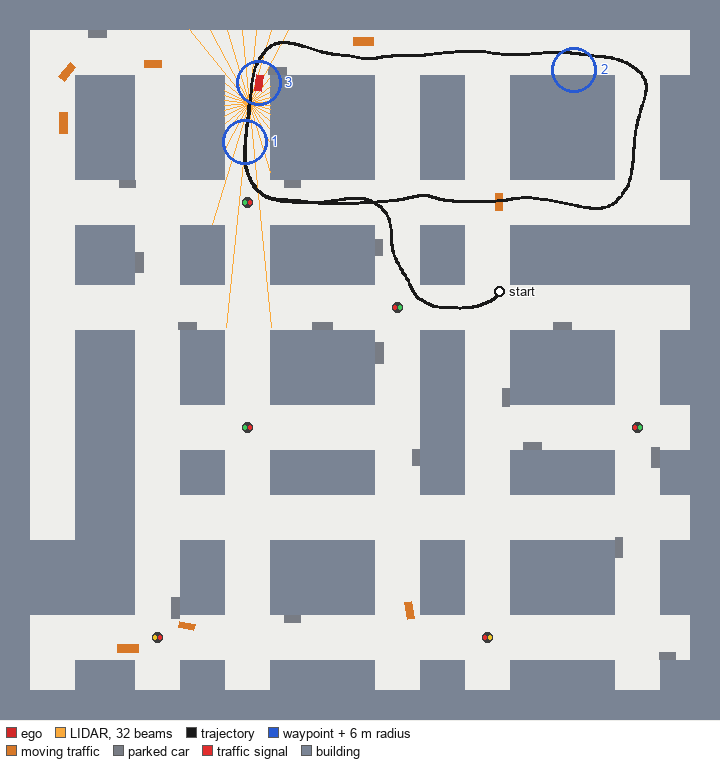
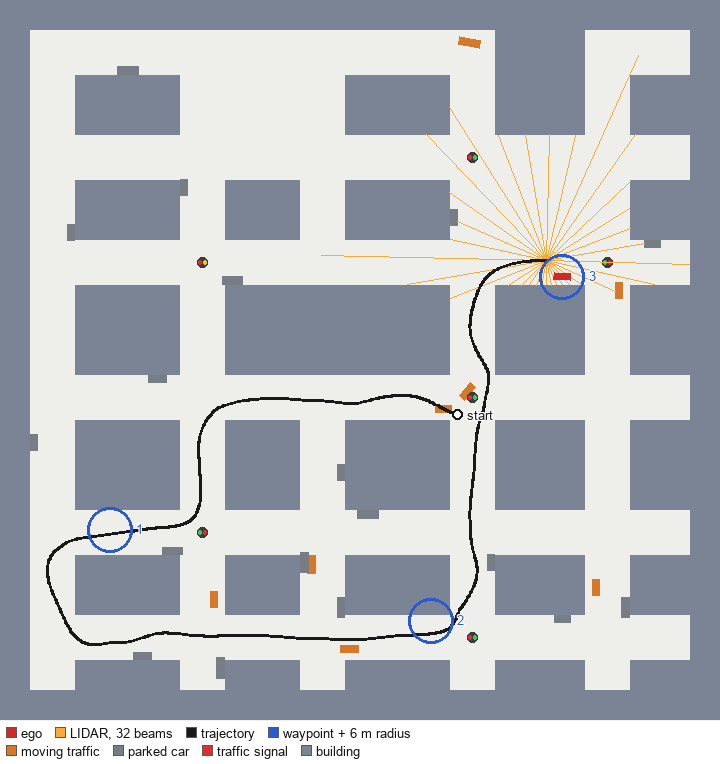
Never sample a waypoint inside a dead-end border tail
Every v_road/h_road is painted border-to-border in generate() regardless of
where the other axis's crossings fall, so the stretch beyond a corridor's
outermost intersection -- out to the map edge -- is real, drivable road with
nothing connecting past it. Measured up to 7 tiles (28 m) deep. A spawn,
parked car, or on-rails traffic sitting there is harmless, but a waypoint
placed there sends the ego on a there-and-back detour into a stub instead of
routing it through the intersection it forked from -- which is what was being
reported as "a 4-way intersection where one path leads to a dead end."

ProceduralCity now exposes target_cells (road_cells minus those border
tails, computed once per generate()); _sample_targets draws from it instead
of road_cells. road_cells itself, and everything that reads it (spawn pose
sampling, parking, traffic routing), is untouched. A waypoint can still land
right at the intersection the tail hangs off of -- that was never the part
that needed fixing.

Verified: 10,000 sampled targets across 500 seeds never land outside
target_cells; a previously-confirmed 7-tile dead-end stub is excluded from
column 2 of the stub onward while the intersection tile itself stays
eligible. New assertions in tests/test_core.py; full suite passes.

diff --git a/env/world.py b/env/world.py
@@ -67,6 +67,7 @@ class ProceduralCity:
         self.height = self.cfg.height
         self.grid = None
         self.road_cells = None      # (N, 2) array of (row, col) reachable road tiles
+        self.target_cells = None    # road_cells minus dead-end border tails; see _dead_end_tail_mask
         self.intersections = []     # (x, y) world-space centres of every 4-way crossing
         self.signals = []           # the sparse subset of those that get traffic lights
         self.road_nodes = None      # (K, 2) corridor centre-line crossings, incl. T-junctions
@@ -126,6 +127,42 @@ class ProceduralCity:
         self.signals = self._choose_signals(self.intersections)
         self.road_nodes, self.node_links = self._build_road_graph(grid, v_roads, h_roads)
         self.parking_spots = self._parking_spots(grid, self.road_nodes)
+        self.target_cells = self._exclude_dead_end_tails(grid, cells, v_roads, h_roads)
+
+    def _exclude_dead_end_tails(self, grid, cells, v_roads, h_roads):
+        """`road_cells` minus every corridor's dead-end border tail.
+
+        Every v_road/h_road is painted border-to-border in `generate()`
+        regardless of where the *other* axis's crossings fall, so the stretch
+        beyond a corridor's outermost crossing -- out to the map edge -- is
+        real, driveable road with nothing connecting past it: a car can enter
+        it, but only ever turn around. `_block_segments` cannot produce this
+        on its own (it walls off a whole inter-crossing span at once, so both
+        sides it touches go to zero length, not a real stub) -- these border
+        tails are the only dead ends here with meaningful length, up to
+        `max_block` tiles. Fine for a spawn, parking, or traffic to sit in --
+        it's a legitimate stretch of the city, and traffic on rails cannot
+        wander off it anyway -- but a *target* placed deep inside one sends
+        the ego on a there-and-back detour that teaches nothing about the
+        intersection it forked from. Excluding it from the target pool alone
+        (`road_cells` itself is untouched) redistributes that probability
+        mass over the rest of the map rather than clustering waypoints onto
+        intersection centres.
+        """
+        if not v_roads or not h_roads:
+            return cells
+        cfg = self.cfg
+        mask = np.zeros(grid.shape, dtype=bool)
+        y_lo, y_hi = h_roads[0], h_roads[-1] + cfg.road_width
+        for x in v_roads:
+            mask[cfg.border:y_lo, x:x + cfg.road_width] = True
+            mask[y_hi:cfg.height - cfg.border, x:x + cfg.road_width] = True
+        x_lo, x_hi = v_roads[0], v_roads[-1] + cfg.road_width
+        for y in h_roads:
+            mask[y:y + cfg.road_width, cfg.border:x_lo] = True
+            mask[y:y + cfg.road_width, x_hi:cfg.width - cfg.border] = True
+        kept = cells[~mask[cells[:, 0], cells[:, 1]]]
+        return kept if len(kept) > 0 else cells
 
     def _find_intersections(self, grid, v_roads, h_roads):
         """Return world-space (x, y) centres of true 4-way road crossings.
@@ -573,10 +610,17 @@ class ProceduralCity:
     # ------------------------------------------------------------------
     # Spawn sampling
     # ------------------------------------------------------------------
-    def sample_road_point(self, jitter=0.5):
-        """Uniformly sample a world point on a reachable road tile."""
-        idx = self.rng.integers(0, len(self.road_cells))
-        row, col = self.road_cells[idx]
+    def sample_road_point(self, jitter=0.5, cells=None):
+        """Uniformly sample a world point on a reachable road tile.
+
+        `cells` overrides the pool to sample from (default `self.road_cells`)
+        -- `_sample_targets` passes `self.target_cells` so a waypoint never
+        lands in a dead-end border tail; nothing else needs the override.
+        """
+        if cells is None:
+            cells = self.road_cells
+        idx = self.rng.integers(0, len(cells))
+        row, col = cells[idx]
         ts = self.tile_size
         j = jitter * ts * 0.5
         x = (col + 0.5) * ts + self.rng.uniform(-j, j)
@@ -654,7 +698,7 @@ class ProceduralCity:
         x, y = self.sample_road_point()
         return x, y, 0.0
 
-    def sample_point_near(self, x, y, min_dist, max_dist, tries=200):
+    def sample_point_near(self, x, y, min_dist, max_dist, tries=200, cells=None):
         """Sample a road point within an annulus around (x, y).
 
         Used to place targets far enough to be a real navigation problem but
@@ -662,7 +706,7 @@ class ProceduralCity:
         """
         best, best_gap = None, np.inf
         for _ in range(tries):
-            px, py = self.sample_road_point()
+            px, py = self.sample_road_point(cells=cells)
             d = np.hypot(px - x, py - y)
             if min_dist <= d <= max_dist:
                 return px, py

diff --git a/tests/test_core.py b/tests/test_core.py
@@ -48,6 +48,21 @@ n_road = int((city.grid == ROAD).sum())
 assert n_road == len(city.road_cells), f"connectivity mismatch: {n_road} vs {len(city.road_cells)}"
 print("connectivity    : OK (all road tiles mutually reachable)")
 
+# target_cells must be a strict, non-trivial subset of road_cells (dead-end
+# border tails excluded) across many seeds -- road_cells itself untouched, so
+# spawn/parking/traffic keep seeing every reachable tile.
+excl_fracs = []
+for seed in range(30):
+    c = ProceduralCity(CityConfig(width=48, height=48, tile_size=4.0), seed=seed)
+    assert len(c.target_cells) < len(c.road_cells), "target_cells must exclude something"
+    assert len(c.target_cells) > 0.5 * len(c.road_cells), "must not over-exclude"
+    road_set = {tuple(p) for p in c.road_cells}
+    target_set = {tuple(p) for p in c.target_cells}
+    assert target_set <= road_set, "target_cells must stay a subset of road_cells"
+    excl_fracs.append(1 - len(c.target_cells) / len(c.road_cells))
+print(f"target_cells excludes {np.mean(excl_fracs):.1%} of road tiles on average "
+      f"(range {min(excl_fracs):.1%}-{max(excl_fracs):.1%}) over 30 seeds : OK")
+
 print()
 print("=" * 62)
 print("2. MAP PREVIEW (48x48)")

diff --git a/env/nav_env.py b/env/nav_env.py
@@ -505,15 +505,22 @@ class CarNavEnv(_BaseEnv):
         return self._observe(), self._info()
 
     def _sample_targets(self):
-        """Chain waypoints so each is a reachable hop from the previous one."""
+        """Chain waypoints so each is a reachable hop from the previous one.
+
+        Sampled from `city.target_cells`, not `city.road_cells` -- excludes
+        dead-end border tails (real road, but nothing connects beyond them)
+        so a waypoint never sends the ego on a there-and-back detour into a
+        stub instead of routing it through the intersection it forked from.
+        """
         self.targets = []
         px, py = self.car.x, self.car.y
         for _ in range(self.cfg.n_targets):
             pt = self.city.sample_point_near(
-                px, py, self.cfg.target_min_dist, self.cfg.target_max_dist
+                px, py, self.cfg.target_min_dist, self.cfg.target_max_dist,
+                cells=self.city.target_cells,
             )
             if pt is None:
-                pt = self.city.sample_road_point()
+                pt = self.city.sample_road_point(cells=self.city.target_cells)
             self.targets.append(pt)
             px, py = pt
 

diff --git a/README.md b/README.md
@@ -392,6 +392,21 @@ model needs. Per-tile shading costs ~1k extra quads.
 connected component and walls off the rest, so a sampled target is never
 unreachable from a sampled spawn.
 
+**A target is never sampled inside a dead-end.** Every v_road/h_road is
+painted border-to-border regardless of where the *other* axis's crossings
+fall, so the stretch beyond a corridor's outermost intersection — out to the
+map edge — is real, driveable road with nothing connecting past it: enterable,
+but only ever a turn-around, up to `max_block` tiles deep. Fine for a spawn,
+for parking, or for traffic (which is on rails and cannot wander off it
+anyway) — but a *waypoint* placed there sends the ego on a there-and-back
+detour that teaches nothing about the intersection it forked from. `city.
+target_cells` excludes exactly those border tails from the pool `_sample_
+targets` draws from (measured: 6–16% of road tiles per map, all of them
+right at the four edges), while `city.road_cells` — what spawn, parking and
+traffic still use — is untouched. A waypoint can still land right at the
+intersection those tails hang off of, which is the one part of "enter the
+dead-end" that was never the problem.
+
 **Right-of-way is decided by the stop line crossed, not by heading.** The obvious
 implementation asks which way the car is pointing (`|sin h| > |cos h|`) and reads
 the N-S or E-W phase accordingly. On a 12 m undivided corridor with no lane
